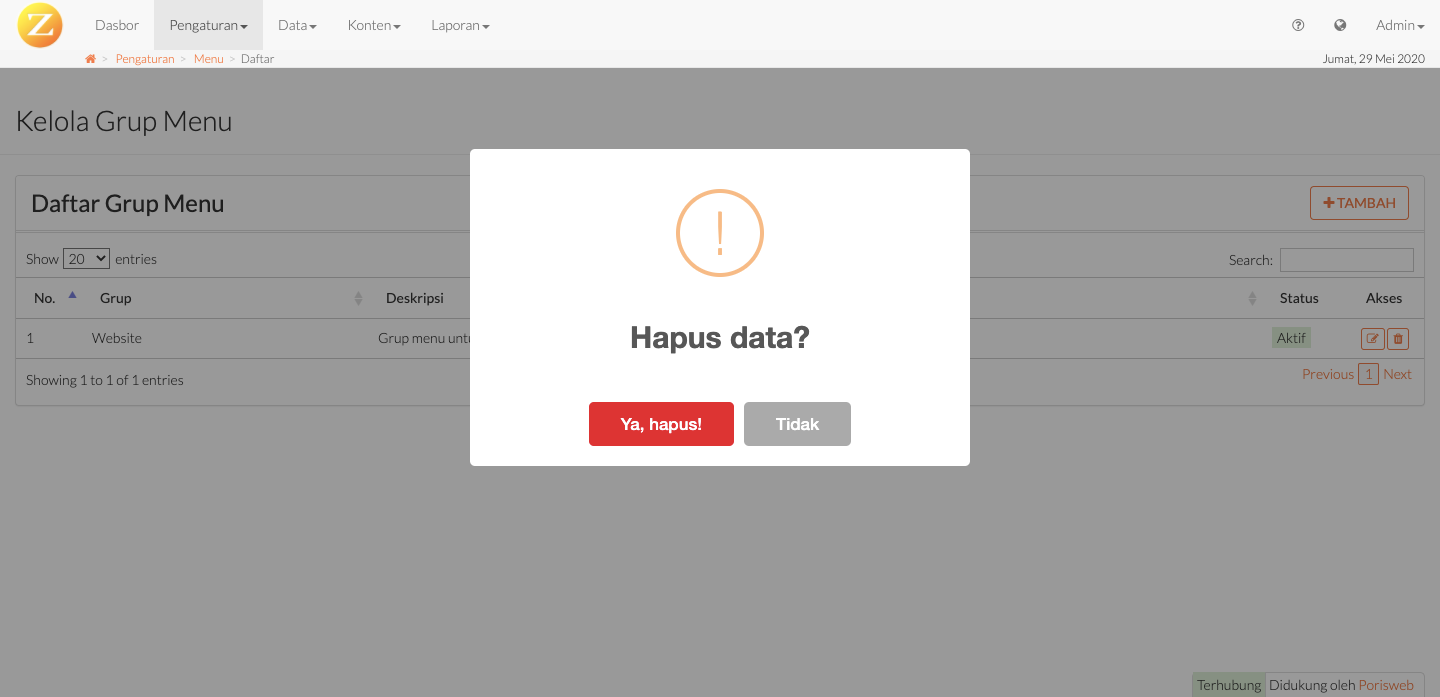
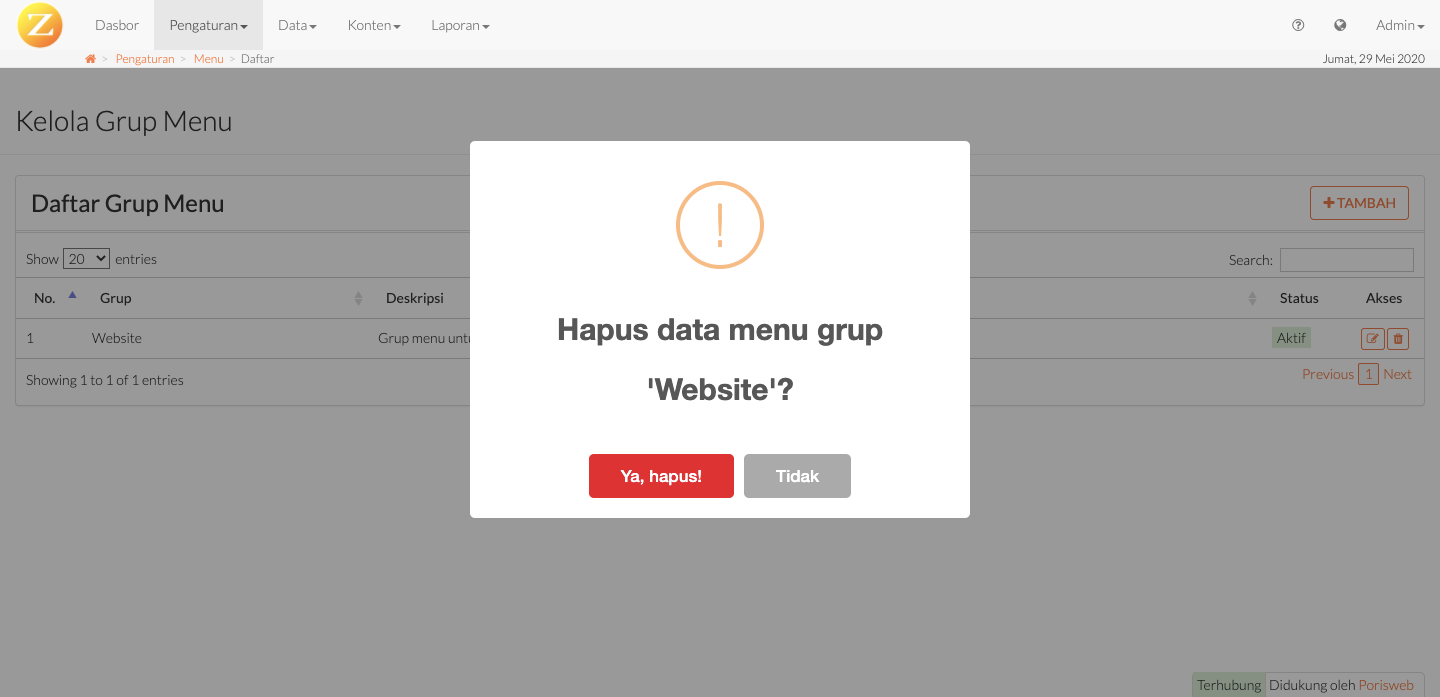
help pengaturan

diff --git a/src/database/seeds/GuideSeeder.php b/src/database/seeds/GuideSeeder.php
@@ -172,7 +172,6 @@ class GuideSeeder extends Seeder
         $content .= '<li><b>Aktif</b>, centang untuk mengaktifkan grup menu.</li>';
         $content .= '</ul>';
         $setMenuAddInfo = Guide::create([
-            // 'cover' => '/themes/admin/AdminSC/images/help/pengaturan-grupmenu-tambah.png',
             'title' => 'Informasi Utama',
             'slug' => 'pengaturan-grupmenu-tambah-infoutama',
             'content' => $content,
@@ -183,7 +182,7 @@ class GuideSeeder extends Seeder
         ]);
 
         /* Pengaturan - (Grup) Menu - Edit */
-        $content = 'Halaman untuk mengedit data grup menu.';
+        $content = 'Halaman untuk mengedit data grup menu. Anda juga dapat menghapusnya di sini dengan menekan tombol <a class="btn btn-danger btn-xs">Hapus</a>.';
         $setMenuEdit = Guide::create([
             'cover' => '/themes/admin/AdminSC/images/help/pengaturan-grupmenu-edit.png',
             'title' => 'Edit',
@@ -203,7 +202,6 @@ class GuideSeeder extends Seeder
         $content .= '<li><b>Aktif</b>, centang untuk mengaktifkan grup menu.</li>';
         $content .= '</ul>';
         $setMenuEditInfo = Guide::create([
-            // 'cover' => '/themes/admin/AdminSC/images/help/pengaturan-grupmenu-tambah.png',
             'title' => 'Informasi Utama',
             'slug' => 'pengaturan-grupmenu-edit-infoutama',
             'content' => $content,
@@ -214,15 +212,62 @@ class GuideSeeder extends Seeder
         ]);
 
         /* Pengaturan - (Grup) Menu - Edit - Daftar Menu */
-        $content = '<p>Rincian daftar menu dari grup menu. Anda dapat menambahkannya dengan menekan tombol <a class="btn btn-default btn-xs"><span class="fa fa-plus"></span></a> dan juga mengubah urutan posisi dengan menekan baris menunya (kursor berbentuk <span class="fa fa-arrows" style="font-size:small;"></span>) lalu geser sesuai posisi yang diinginkan.</p>';
-        $setMenuEditInfo = Guide::create([
-            // 'cover' => '/themes/admin/AdminSC/images/help/pengaturan-grupmenu-tambah.png',
+        $content = '<p>Rincian daftar menu dari grup menu. Tombol <a class="btn btn-default btn-xs"><span class="fa fa-edit"><span></a> <code>Edit</code> untuk mengedit menu dan tombol <a class="btn btn-default btn-xs"><span class="fa fa-trash"><span></a> <code>Hapus</code> untuk menghapus menu. Anda dapat menambahkannya dengan menekan tombol <a class="btn btn-default btn-xs"><span class="fa fa-plus"></span></a> dan juga mengubah urutan posisi dengan menekan baris menunya (kursor berbentuk <span class="fa fa-arrows" style="font-size:small;"></span>) lalu geser sesuai posisi yang diinginkan.</p>';
+        $setMenuEditDaftar = Guide::create([
             'title' => 'Daftar Menu',
             'slug' => 'pengaturan-grupmenu-edit-daftarmenu',
             'content' => $content,
             'roles' => 'super,admin',
             'order' => $setMenuEditOrder++,
             'parent_id' => $setMenuEdit->id,
+            'status' => 'active',
+        ]);
+
+        $setMenuEditMenuOrder = 1;
+        /* Pengaturan - (Grup) Menu - Edit - Tambah & Edit */
+        $content = '<p>Halaman untuk menambahkan atau mengedit data menu dalam grup. Anda juga dapat menghapus data dari halaman ini jika dalam mode edit.</p>';
+        $content .= '<ul>';
+        $content .= '<li><b>Nama</b>, nama menu yang akan tampil di situs.</li>';
+        $content .= '<li><b>Deskripsi</b>, berikan sedikit penjelasan mengenai menu tersebut.</li>';
+        $content .= '<li><b>Tautan</b>, sebagai penghubung menu tersebut. Terdapat pilihan dari daftar <code>Halaman</code> dan <code>Artikel</code>. Anda juga dapat menggunakan tautan luar dengan memilih <code>Tautan Luar</code>, pastikan selalu menggunakan <code>http://</code> atau <code>http://</code> di awal tautan.</li>';
+        $content .= '<li><b>Ikon</b>, Anda dapat menggunakan ikon dari <a href="https://fontawesome.com/icons" target="_blank">sini</a>.</li>';
+        $content .= '<li><b>Target</b>, untuk membuka tautan pada jendela yang sedang aktif atau buka jendela baru.</li>';
+        $content .= '<li><b>Aktif</b>, centang untuk mengaktifkan menu.</li>';
+        $content .= '</ul>';
+        $setMenuEditMenuAdd = Guide::create([
+            'cover' => '/themes/admin/AdminSC/images/help/pengaturan-grupmenu-edit-tambah.png',
+            'title' => 'Tambah & Edit',
+            'slug' => 'pengaturan-grupmenu-edit-daftarmenu-tambahedit',
+            'content' => $content,
+            'roles' => 'super,admin',
+            'order' => $setMenuEditMenuOrder++,
+            'parent_id' => $setMenuEditDaftar->id,
+            'status' => 'active',
+        ]);
+
+        /* Pengaturan - (Grup) Menu - Edit - Hapus */
+        $content = '<p>Saat Anda menekan tombol hapus pada salah satu daftar menu, akan muncul konfirmasi sebelum data dihapus untuk mencegah terjadinya kesalahan hapus data.</p>';
+        $setMenuEditMenuDel = Guide::create([
+            'cover' => '/themes/admin/AdminSC/images/help/pengaturan-grupmenu-edit-hapus.png',
+            'title' => 'Hapus',
+            'slug' => 'pengaturan-grupmenu-edit-daftarmenu-hapus',
+            'content' => $content,
+            'roles' => 'super,admin',
+            'order' => $setMenuEditMenuOrder++,
+            'parent_id' => $setMenuEditDaftar->id,
+            'status' => 'active',
+        ]);
+
+        /* Pengaturan - (Grup) Menu - Hapus */
+        $content = '<p>Saat Anda menekan tombol hapus pada salah satu daftar grup menu, akan muncul konfirmasi sebelum data dihapus untuk mencegah terjadinya kesalahan hapus data.</p>';
+        $setMenuDel = Guide::create([
+            'cover' => '/themes/admin/AdminSC/images/help/pengaturan-grupmenu-hapus.png',
+            'title' => 'Hapus',
+            'slug' => 'pengaturan-grupmenu-hapus',
+            'content' => $content,
+            'roles' => 'super,admin',
+            'order' => $setMenuOrder++,
+            'parent_id' => $setMenu->id,
             'status' => 'active',
         ]);
 
